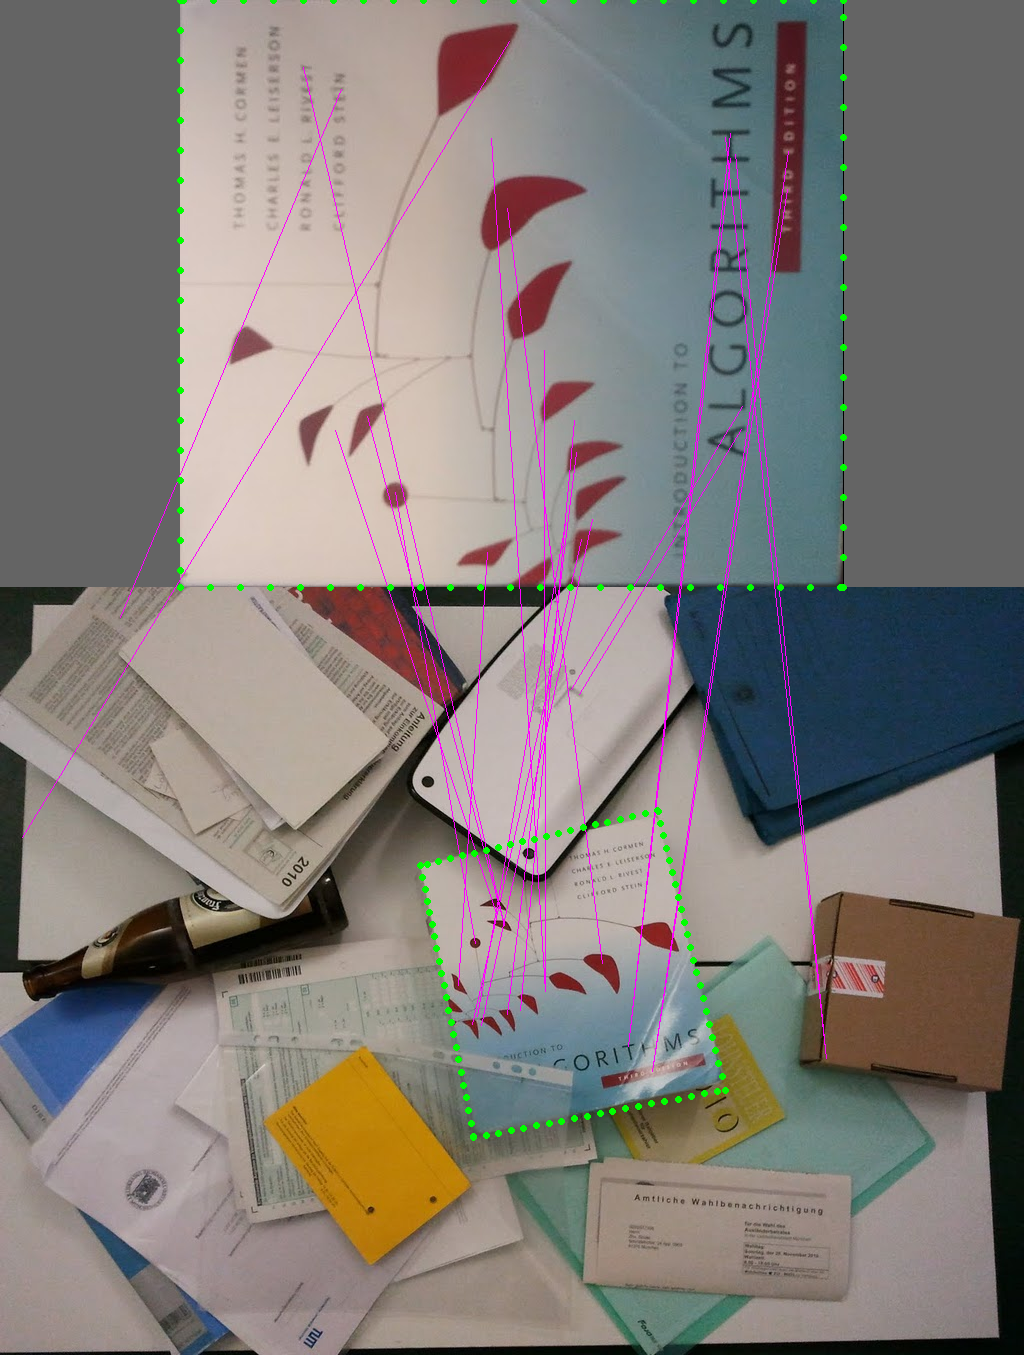
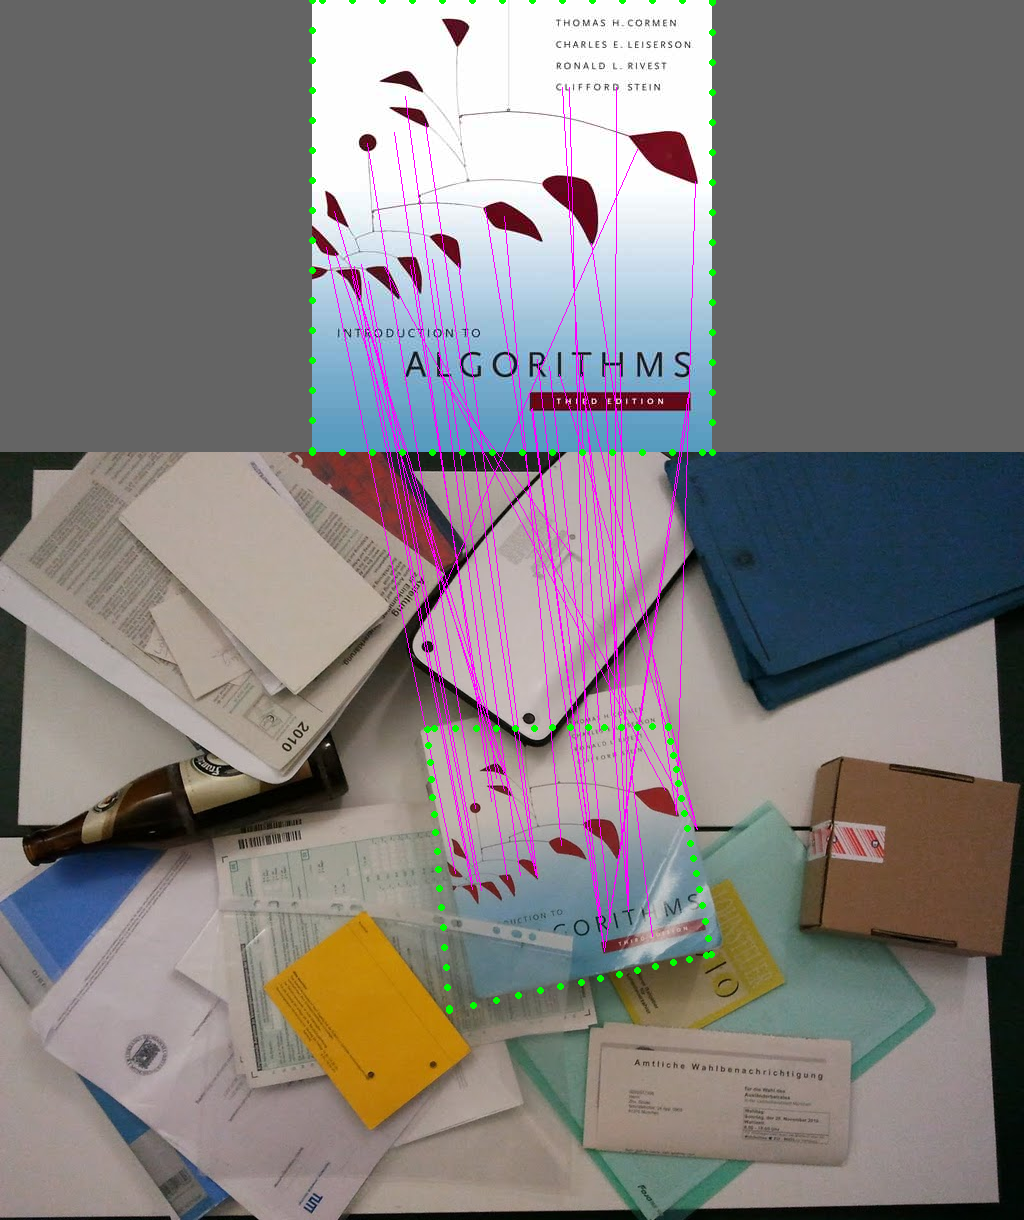
todos: 1.new sift_result.png 2...

diff --git a/paper/ccd.tex b/paper/ccd.tex
@@ -180,7 +180,7 @@ implementation we introduce the following novel improvements. Firstly, we use
 the logistic sigmoid function instead of a Gaussian error function which renders a
 curve-fitting problem as a Gaussian logistic problem~\footnote{For the two-class
 classification problem, the posterior probability 
-of class $C$ can be written as a \textbf{continous} logistic sigmoid acting
+of class $C$ can be written as a \textbf{continuous} logistic sigmoid acting
 on a linear function of $x$ (equivalent to \textit{fuzzy assignment}).} known in the field of pattern 
 recognition. Secondly, a quadratic or
 a cubic B-spline curve is used to model the parametric curve
@@ -217,7 +217,7 @@ from the images. In 1980s, a paradigm named \textit{Active Vision}~\cite{aloimon
 escaped this bind and pushed the vision process in a more goal-directed fashion. 
 After that the \textit{Snakes} algorithm was proposed in a seminar work conducted 
 by Kass~\cite{kass1988snakes}. The original paper, spawned many variations
-and extensions including the use of Fourier parameterisation~\cite{scott1987alternative}, 
+and extensions including the use of Fourier parametrization~\cite{scott1987alternative}, 
 and incorporation of the topologically adaptable models~\cite{mcinerney1995topologically}.
 A realization of the Snakes using B-splines was developed in~\cite{brigger2000b}. 
 % In two dimensions, the Snakes have a variation named active shape
@@ -328,7 +328,7 @@ CCD algorithm as presented by Hanek et al~\cite{hanek2004contracting}.
   \caption{The flowchart of the basic steps of the CCD algorithm.}
   \label{fig:flowchart}
 \end{figure}
-The algorithm consists of four major steps which are sketched in Figure~\ref{fig:flowchart}:
+The algorithm consists of four major steps which are sketched in Fig.~\ref{fig:flowchart}:
 \begin{enumerate}
 \item \textbf{Initialization}: Given an input image $I$ as training data, we first choose an initial
   contour for an object which will be fitted or tracked, and
@@ -815,7 +815,7 @@ failed in two cases. The average convergence time was 3.35$s$, see also Table~\r
 \label{sec:sift_init}
 \begin{figure}[htbp]
   \centering
-  \includegraphics[width=0.7\columnwidth]{experiments/book_sift/stacked.jpg}
+  \includegraphics[width=0.8\columnwidth]{experiments/book_sift/sift_result.png}
   \caption{Segmentation of a book using SIFT-based initialization.}
   \label{fig:sift_result}
 \end{figure}

diff --git a/ccd/src/sift_init.c b/ccd/src/sift_init.c
@@ -84,6 +84,7 @@ CvMat sift_init(IplImage *img1, IplImage *img2, int inteval)
         pt1 = cvPoint( cvRound( feat->x ) + (MAX(img1->width, img2->width) - img1->width)*0.5, cvRound( feat->y ) );
         pt2 = cvPoint( cvRound( nbrs[0]->x ), cvRound( nbrs[0]->y ) );
         pt2.y += img1->height;
+        if(pt2.x > 399 & pt2.x < 740)
         cvLine( stacked, pt1, pt2, CV_RGB(255,0,255), 1, 8, 0 );
         m++;
         feat1[i].fwd_match = nbrs[0];
